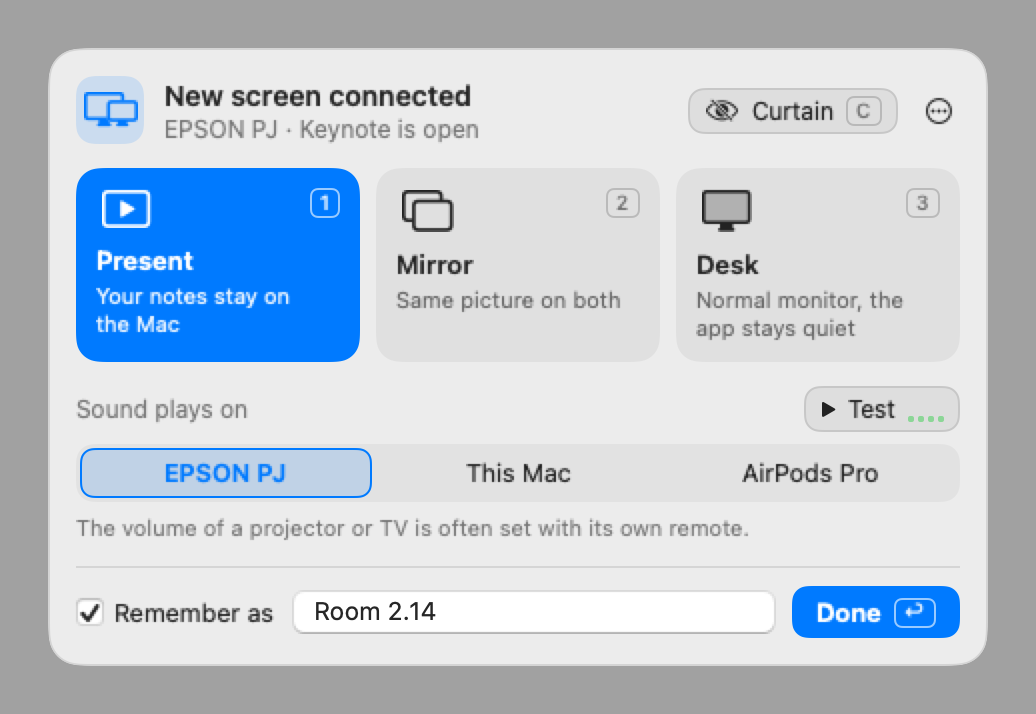
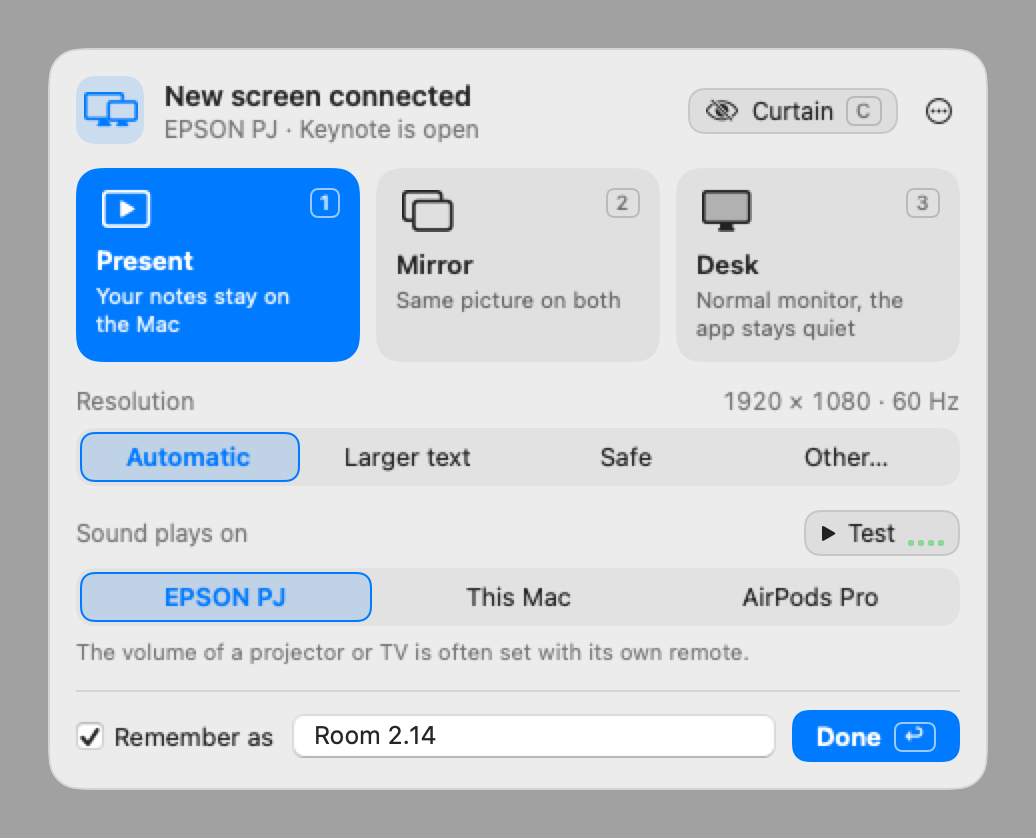
README: current screenshot with the Resolution row, small corrections
- Screenshot of the 0.4.1 panel in Present.
- Open at login can also be changed in Settings.
- Login Items wording that fits older and newer macOS.
- Year in the copyright line, as in the LICENSE.

diff --git a/README.md b/README.md
@@ -5,7 +5,7 @@ No searching through System Settings for mirroring, and no hunting for the sound
 
 When you plug in a screen your Mac doesn't know yet, a panel appears in the middle of your screen:
 
-<img src="assets/screenshot.png" alt="The Present Perfect panel: Present, Mirror or Desk, and where the sound plays" width="518">
+<img src="assets/screenshot.png" alt="The Present Perfect panel: Present, Mirror or Desk, the resolution, and where the sound plays" width="518">
 
 - **Present** (1): the projector shows your slides, your Mac keeps the presenter notes.
 - **Mirror** (2): the same picture on both screens.
@@ -65,7 +65,7 @@ While a projector or TV is connected for presenting, your Mac doesn't fall aslee
   Use **Check for Updates…** in the menu to check now, or turn off **Update Automatically** there.
 - **Welcome.** The first time you open it, a short welcome explains the basics and asks whether
   Present Perfect may open at login (recommended, so it's ready when you plug in). You can change this
-  later in the **⋯** menu or the menu bar icon's menu, where **How It Works…** shows the welcome again.
+  later in **Settings…**, the **⋯** menu or the menu bar icon's menu, where **How It Works…** shows the welcome again.
 - **Resolution.** Present Perfect only uses the resolutions that the screen, cable and adapter report to macOS.
   Some adapters (VGA in particular) don't pass on the projector's details. When macOS gets no details,
   **Safe** picks 1024 × 768 if it's available.
@@ -88,7 +88,7 @@ so read it before you post it.
 ## Uninstall
 
 Quit Present Perfect from its menu, then drag it from Applications to the Trash.
-If it still shows up in **System Settings > General > Login Items**, remove it there.
+If it still shows up under **Login Items** in **System Settings > General**, remove it there.
 
 ## Building from source
 
@@ -100,4 +100,4 @@ Present Perfect is free. If it saves you time, you can [buy me a coffee](https:/
 
 ## License
 
-[MIT](LICENSE) © Filip Haegdorens
+[MIT](LICENSE) © 2026 Filip Haegdorens
